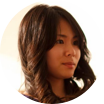
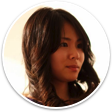
updated profile pic

diff --git a/2013font.html b/2013font.html
@@ -1,0 +1,27 @@
+<!-- @include _header -->
+<section class="content">
+  <section class="articles">
+    How a postcard turned me from a design dinosaur to a baby unicorn.
+    <p></p>
+    Style:
+    <p></p>
+    Font:
+    <p></p>
+    Color: can't go wrong with blue. Blue/purple is trendy. Grey is a tone, so it goes well with any color.
+    <p></p>
+    Font: to add more variety to the print, it's nice to have two fonts that complement each other. Since Sotheby's font is a Gill Sans (Humanist Sans), I mixed in Epic (Humanist Serif).  The fonts are opposite, serif and sans, one with the tails and one without. Together they will create a contrast rather than a confusing mix that looks similar but not exactly the same. This way, it creates a different feel to it, just like a wine pairing :)
+    <p></p>
+    <p><img src="assets/muni.png"></p>
+    <p></p>
+    headline text: 3x body copy size
+    sub headline text: 1.5x body copy size
+    footer: .75x body copy size
+    font size: 16px - 24px
+    line height 1.5x
+    leading: 120-150% of body copy size
+    characters per line: 50-70
+    To make the postcard intriguing and demand reader attention, I used asymmetr7 with large image on the left and balance that with grid and density on the right.
+  </section>
+</section>
+
+<!-- @include _footer -->

diff --git a/_header.html b/_header.html
@@ -30,7 +30,7 @@
             Objective-C and Ruby.<br>
             My life consists of many <br>
             awkward silly moments.<br>
-            <a class="picture" href="/"><img src="assets/profile_picture.png"></a>
+            <a class="picture" href="/"><img src="assets/profile_picture@2x.png"></a>
             <section class="icons">
             <ul>
               <a href="index.html"><img src="assets/blog@2x.png"></a>
